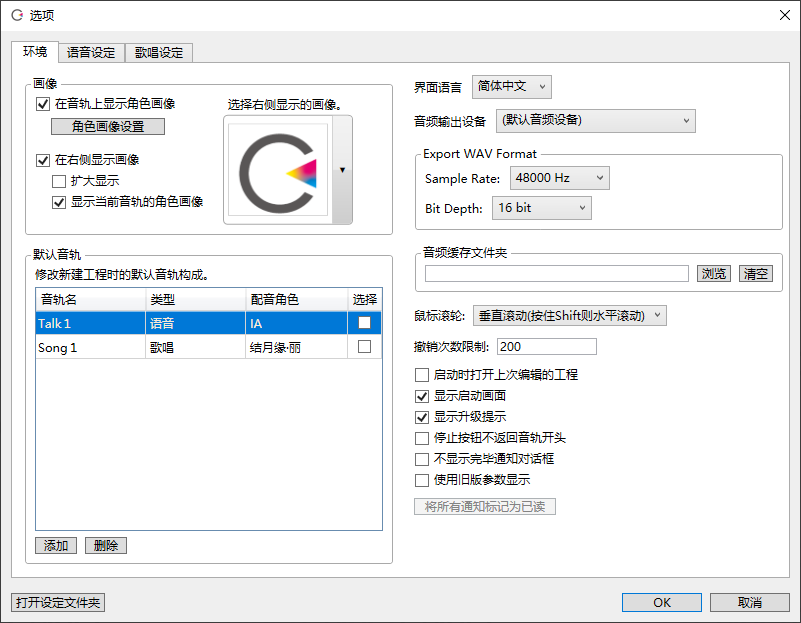
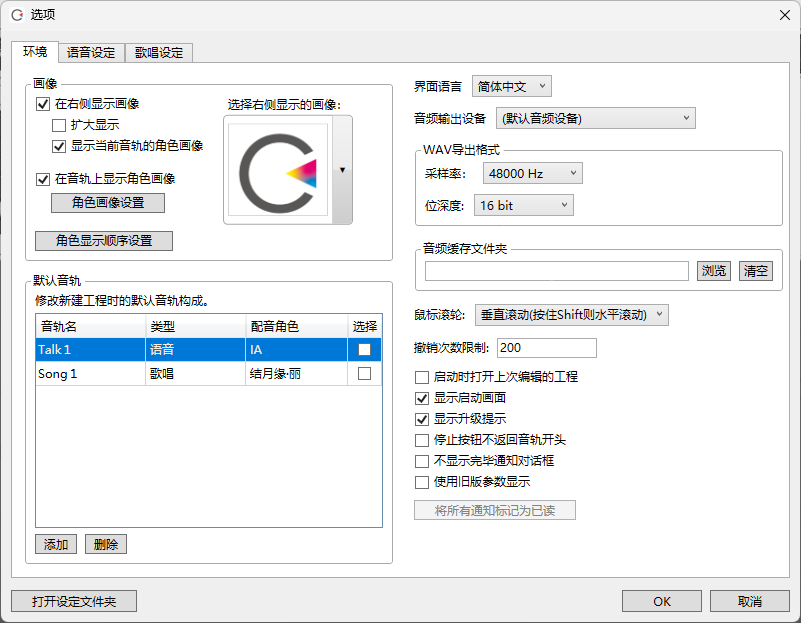
update: option, option(en)

diff --git a/docs/en/option/option.md b/docs/en/option/option.md
@@ -19,20 +19,6 @@ Original article: [CeVIO AI ユーザーズガイド ┃ オプション](https:
 
 ### Image
 
-#### Show cast image of track
-
-Select whether or not to show the image of character in the track header.
-
-#### Image Settings
-
-Modify the display image of each character. This can be replaced by a user image.
-
-![set character image](images/option_2.png)
-
-\* In this example, the image of the the character "OИE"'s Talk voice has been replaced with the user image of Suzuki Tsudumi (すずきつづみ).
-
-[Display user image](../characterimage)
-
 #### Show image on the right side
 
 When this option is on, the character image will be displayed on the upper right of the main screen.
@@ -50,6 +36,28 @@ When this option is on, the character image will switch with the track or the li
 Set the image to be displayed on the right side of the screen. Click on the image to select an image from the list to display. You can also drag and drop your own image here to register them as a user image and select them.
 
 \* When "Linked to the cast of track" is turned on, "Right Side Image" will show the picture that is displayed when no track is selected.
+
+#### Show cast image of track
+
+Select whether or not to show the image of character in the track header.
+
+#### Image Settings
+
+Modify the display image of each character. This can be replaced by a user image.
+
+[Display user image](../characterimage)
+
+![set character image](images/option_2.png)
+
+\* In this example, the image of the the character "OИE"'s Talk voice has been replaced with the user image of Suzuki Tsudumi (すずきつづみ).
+
+### Display Order Setting
+
+Change the order of the cast list displayed when adding tracks or changing casts.
+
+![order setting window](images/option_V8.4.5_option_order_setting_window.png)
+
+\* If you change the order by drag & drop, it will become "Custom order".
 
 ### Default Track Configuration
 
@@ -79,7 +87,9 @@ Specify the sampling rate and bit depth of the exported WAV file.
 
 Set a folder for storing temporary files generated when freezing tracks or loading external audio files.
 
-Temporary files are not automatically deleted. To reduce the amount of space used on the hard drive, using the 'Clear' button clear them.
+\* Temporary files are not automatically deleted. To reduce the amount of space used on the hard drive, using the 'Clear' button clear them.
+
+<span style="color: #dd6f6c">\* Please DO NOT save user data in this folder and its subdirectories. There is a risk of data loss.</span>
 
 ### Mouse Wheel
 
@@ -199,8 +209,6 @@ Set individual pause lengths for punctuation marks and symbols.
 
 \* You can also set the shortest full-width space to 0.025 seconds and use it to break up accent phrases by entering lines like "みなさん　こんにちは".
 
-\* When there are consecutive pause characters such as `・・・` in a sentence, the pause length will be reflected in the number of pause characters.
-
 \* If you want the length of silence at the end of the WAV to be zero, turn off "Affects on Export Audio File".
 
 ### Default Preset
@@ -218,7 +226,7 @@ Please restart the external application after change during external cooperation
 
 ### Voice Version {#voice-version-talk}
 
-Some casts allow choose the voice version.
+Some casts allow choose the voice version. \* There are no voices available currently.
 
 ### Text File Character Code
 
@@ -256,6 +264,8 @@ Enables DAW-like operation to shift position correction by quantizing towards to
 
 Simply check and adjust Timing at the bottom of the score editing screen.
 
+\* When hidden, you can still enter phonemes from the "Enter Lyrics with Phoneme" in "Song" menu or from the Note Properties.
+
 ### Lyric Font
 
 Specify the font and size of lyrics.
@@ -275,6 +285,12 @@ Choose from 2 background theme for the Adjustment Screen.
 
 - Gray
 - Black
+
+### Adjustment Screen Color Settings
+
+Freely customize the color of the lines such as TIMING and pitch on the Adjustments Screen.
+
+![Color Settings](images/option_V8.5_color_settings2.png)
 
 ### Numerical Display
 
@@ -296,7 +312,7 @@ Specify the alpha value when creating a new track or changing a cast.
 
 ### Voice Version {#voice-version-song}
 
-Some casts allow choose the voice version.
+Some casts allow choose the voice version. \* There are no voices available currently.
 
 !!! info "About setting folder"
 

diff --git a/docs/en/firstguide/install.md b/docs/en/firstguide/install.md
@@ -56,7 +56,7 @@ To uninstall, for Windows 11/10 users, select "CeVIO AI" from "Applications" in 
 
 To uninstall the Voice, follow the same steps. Select the Voice and then perform the uninstallation procedure.
 
-<span style="color: red">\* DO NOT delete the files directly from the installation directory. The software will not work properly.</span>
+<span style="color: #dd6f6c">\* DO NOT delete the files directly from the installation directory. The software will not work properly.</span>
 
 ## If Wanted to Use in Another Computer
 

diff --git a/docs/zh/songtrack/songtrack.md b/docs/zh/songtrack/songtrack.md
@@ -234,7 +234,7 @@ layout: post
 
 #### 按音素输入歌词
 
-*音素で歌詞入力 / enter Lyrics with Phoneme*
+*音素で歌詞入力 / Enter Lyrics with Phoneme*
 
 按音素记号（发音记号）输入歌词。
 
@@ -306,7 +306,7 @@ layout: post
 
 \* 使用范围选择工具 / 画笔工具 / 直线工具时，该量化位置也会出现在乐谱编辑页面中。
 
-#### 设置颜色
+#### 颜色设定
 
 *色の設定 / Color Settings*
 

diff --git a/docs/zh/firstguide/install.md b/docs/zh/firstguide/install.md
@@ -56,7 +56,7 @@ layout: post
 
 声库的卸载遵从同样的步骤。选择声库然后执行卸载步骤。
 
-<span style="color: red">※ 请勿直接删除安装目录下的文件。软件将无法正常运行。</span>
+<span style="color: #dd6f6c">※ 请勿直接删除安装目录下的文件。软件将无法正常运行。</span>
 
 ## 如果想在另一台电脑上使用
 

diff --git a/docs/en/songtrack/songtrack.md b/docs/en/songtrack/songtrack.md
@@ -236,7 +236,7 @@ Select whether or not to display the Quantize guide cursor.
 
 #### Color Settings
 
-Freely customize the colour of the lines such as TIMING and pitch on the Adjustments Screen.
+Freely customize the color of the lines such as TIMING and pitch on the Adjustments Screen.
 
 \* Menu in other situations:
 
